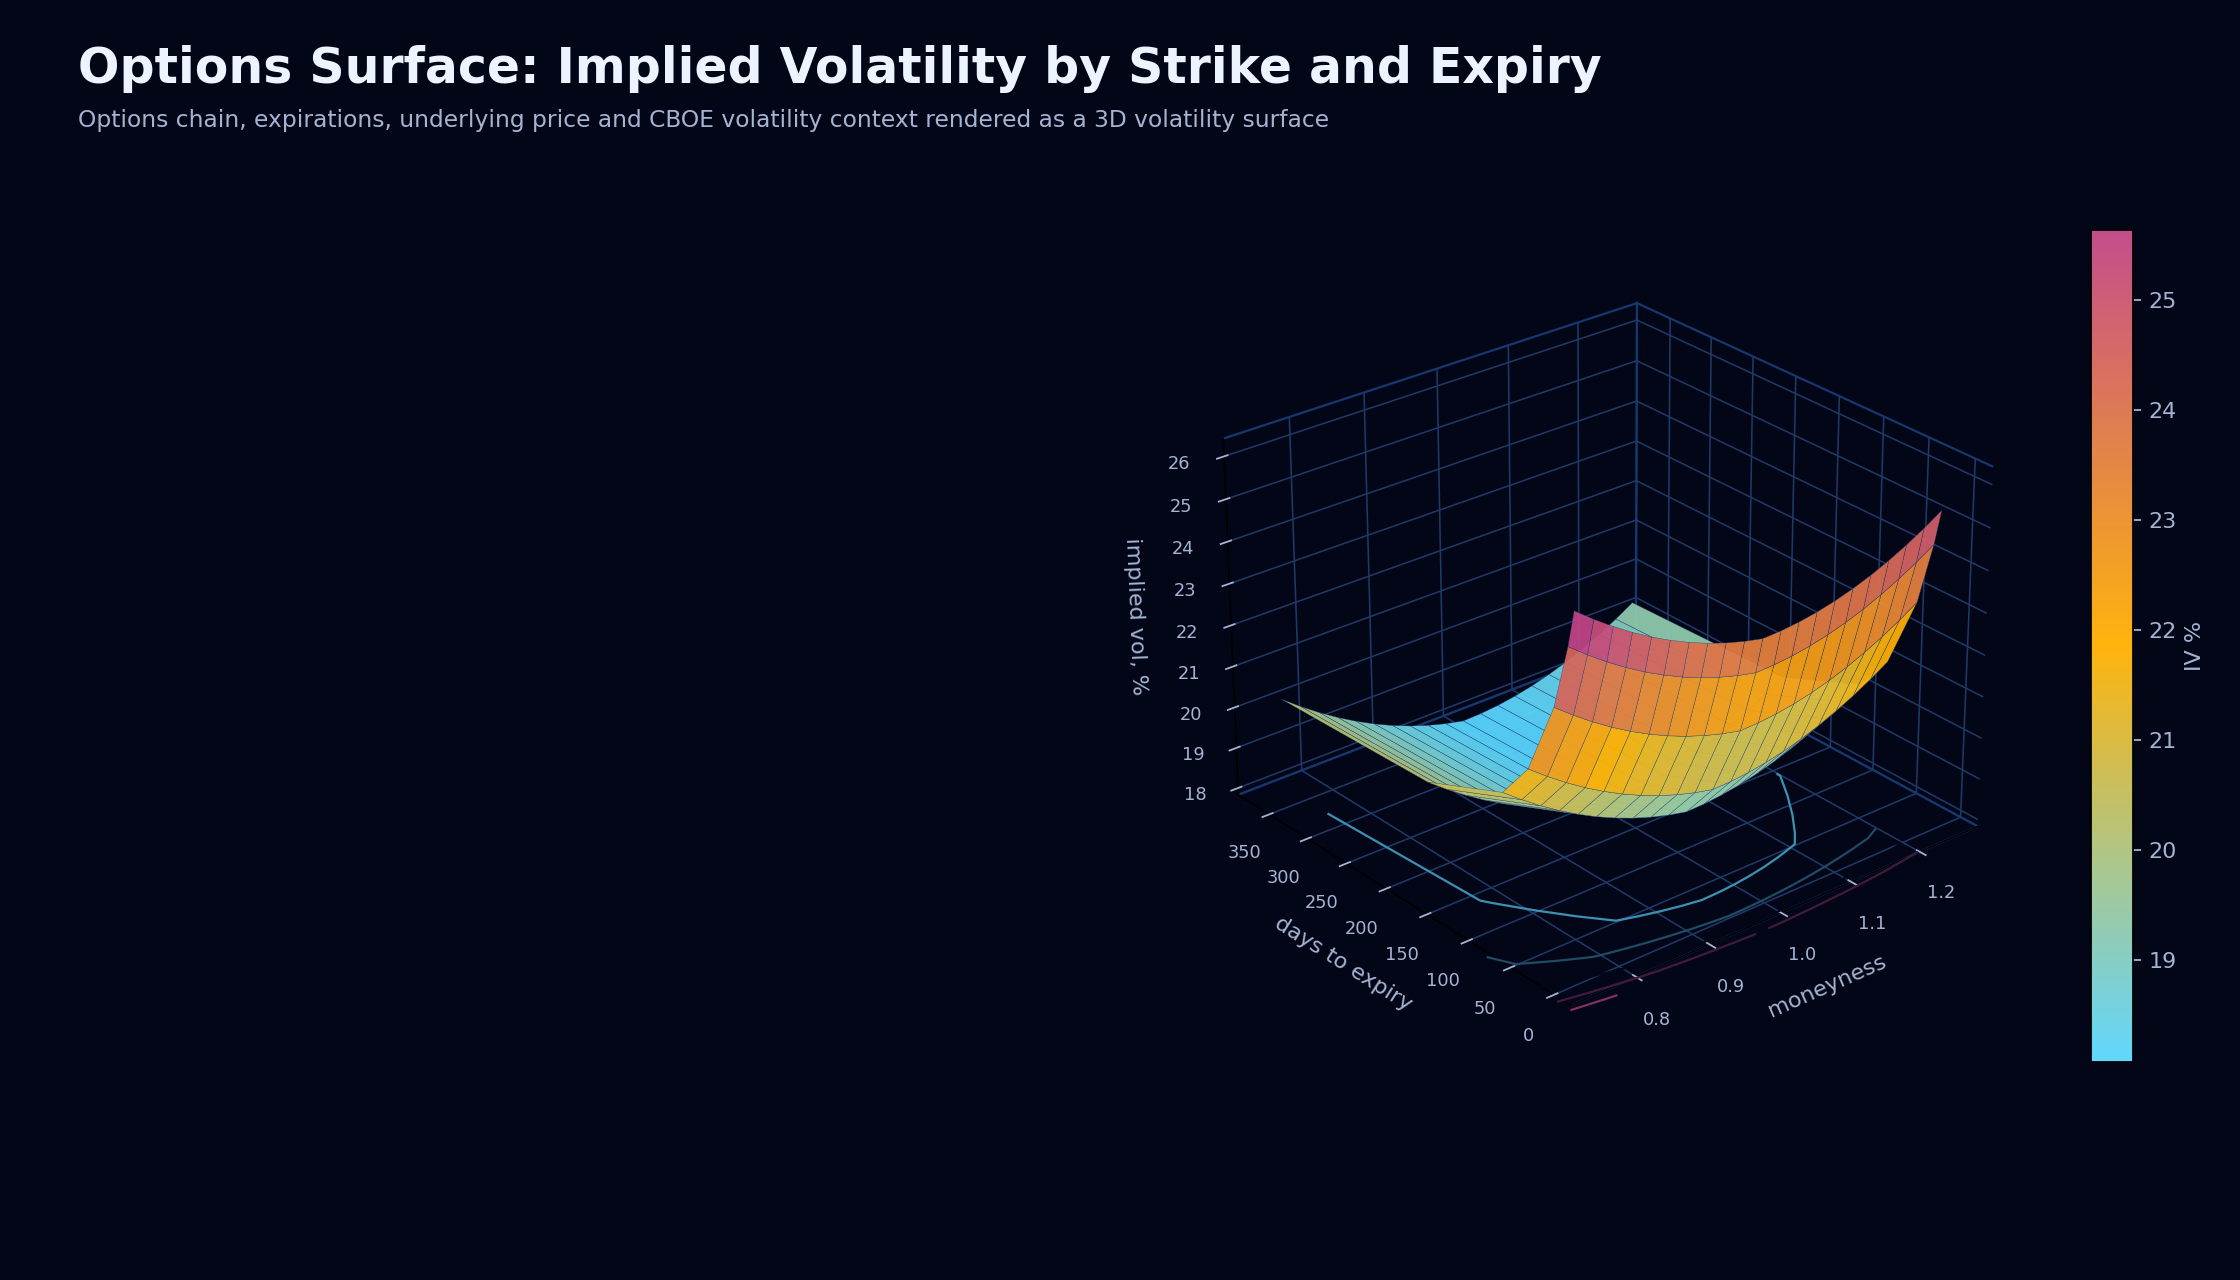
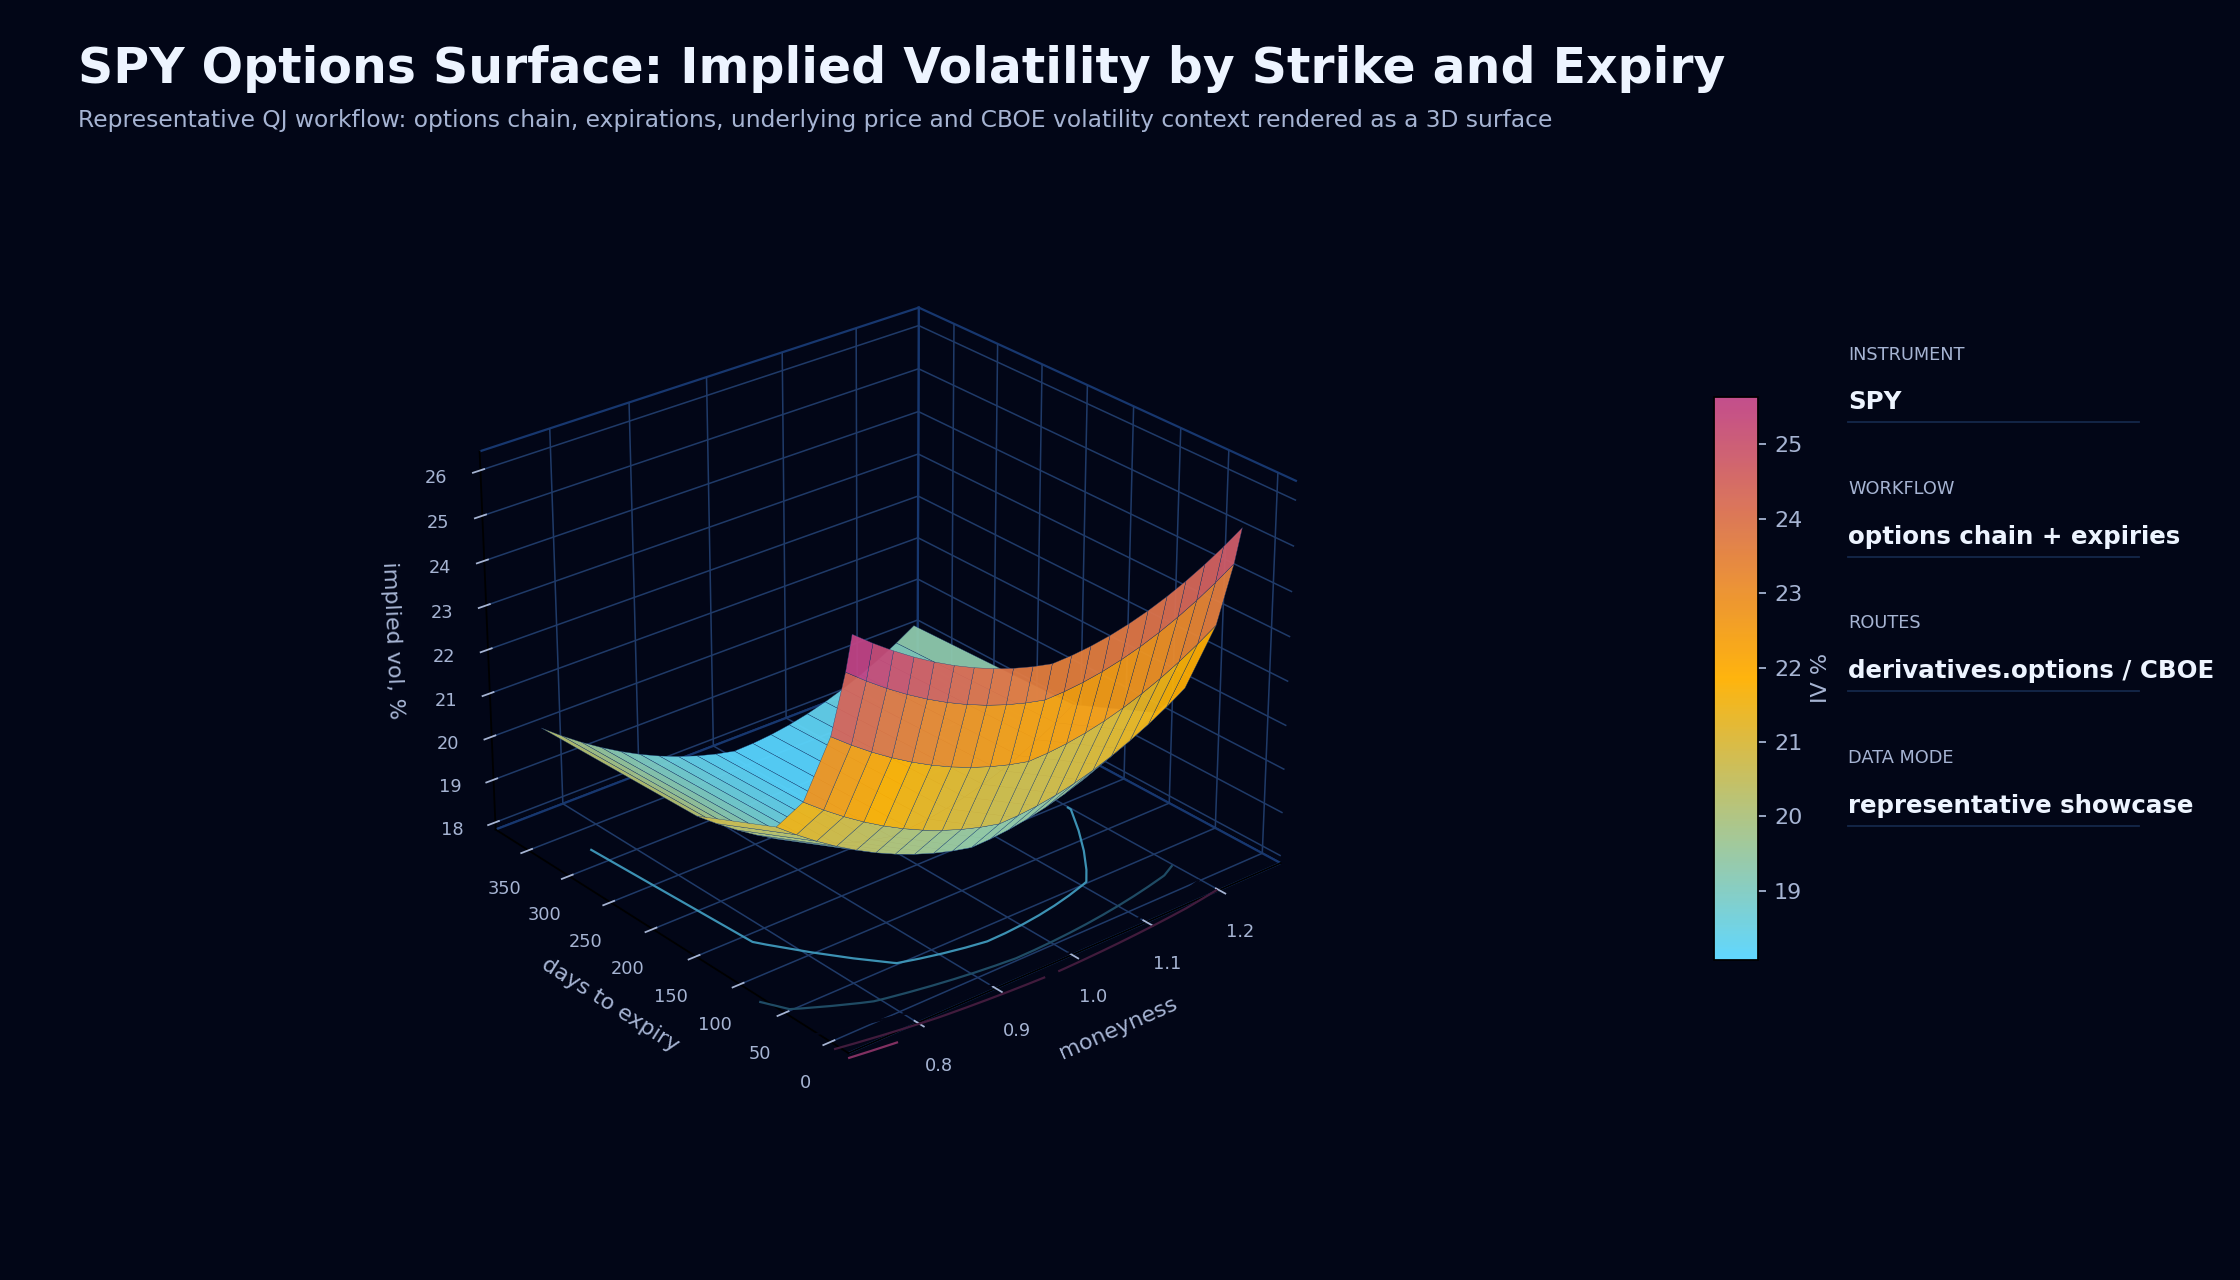
Refine v3 surface chart metadata and layout

diff --git a/scripts/generate_v3_showcase_outputs.py b/scripts/generate_v3_showcase_outputs.py
@@ -25,6 +25,7 @@ matplotlib.use("Agg")
 
 import matplotlib.pyplot as plt
 from matplotlib.colors import LinearSegmentedColormap
+from matplotlib.lines import Line2D
 from mpl_toolkits.mplot3d import Axes3D  # noqa: F401
 import numpy as np
 import pandas as pd
@@ -126,6 +127,21 @@ def title(fig: plt.Figure, heading: str, subtitle: str) -> None:
     fig.patch.set_facecolor(NAVY)
     fig.text(0.035, 0.965, heading, color=TEXT, fontsize=22, weight="semibold", va="top")
     fig.text(0.035, 0.915, subtitle, color=MUTED, fontsize=10.5, va="top")
+
+
+def surface_layout(fig: plt.Figure) -> tuple[plt.Axes, plt.Axes]:
+    ax = fig.add_axes([0.04, 0.13, 0.70, 0.69], projection="3d")
+    cax = fig.add_axes([0.765, 0.25, 0.020, 0.44])
+    return ax, cax
+
+
+def surface_notes(fig: plt.Figure, rows: list[tuple[str, str]]) -> None:
+    y = 0.73
+    for label, value in rows:
+        fig.text(0.825, y, label.upper(), color=MUTED, fontsize=8, va="top")
+        fig.text(0.825, y - 0.035, value, color=TEXT, fontsize=11, weight="semibold", va="top")
+        fig.add_artist(Line2D([0.825, 0.955], [y - 0.060, y - 0.060], transform=fig.transFigure, color=GRID, linewidth=0.8, alpha=0.65))
+        y -= 0.105
 
 
 def legend_below(ax: plt.Axes, columns: int = 1) -> None:
@@ -798,13 +814,15 @@ def plot_orange_factor_risk_river(out: Path) -> None:
 
 
 def plot_options_vol_surface_3d(out: Path) -> None:
+    ticker = "SPY"
     expiries = np.array([7, 14, 30, 60, 90, 180, 365])
     moneyness = np.linspace(0.75, 1.25, 21)
     X, Y = np.meshgrid(moneyness, expiries)
     surface = 0.18 + 0.22 * (X - 1.0) ** 2 + 0.07 * np.exp(-Y / 45) + 0.035 * np.maximum(0, 1 - X)
     fig = plt.figure(figsize=(14, 8), facecolor=NAVY)
-    title(fig, "Options Surface: Implied Volatility by Strike and Expiry", "Options chain, expirations, underlying price and CBOE volatility context rendered as a 3D volatility surface")
-    ax = fig.add_subplot(111, projection="3d")
+    title(fig, "SPY Options Surface: Implied Volatility by Strike and Expiry", "Representative QJ workflow: options chain, expirations, underlying price and CBOE volatility context rendered as a 3D surface")
+    surface_notes(fig, [("instrument", ticker), ("workflow", "options chain + expiries"), ("routes", "derivatives.options / CBOE"), ("data mode", "representative showcase")])
+    ax, cax = surface_layout(fig)
     style_3d(ax)
     surf = ax.plot_surface(X, Y, surface * 100, cmap=LinearSegmentedColormap.from_list("vol3d", [CYAN, ORANGE, PINK]), linewidth=0.15, edgecolor="#17376f", antialiased=True, alpha=0.95)
     ax.contour(X, Y, surface * 100, zdir="z", offset=surface.min() * 100 - 1, cmap=CMAP, linewidths=1.0)
@@ -812,13 +830,14 @@ def plot_options_vol_surface_3d(out: Path) -> None:
     ax.set_ylabel("days to expiry")
     ax.set_zlabel("implied vol, %")
     ax.view_init(elev=27, azim=-130)
-    cbar = fig.colorbar(surf, ax=ax, fraction=0.035, pad=0.04)
+    cbar = fig.colorbar(surf, cax=cax)
     cbar.set_label("IV %", color=MUTED)
     cbar.ax.tick_params(colors=MUTED)
     save(fig, out)
 
 
 def plot_backtest_parameter_surface_3d(out: Path) -> None:
+    ticker = "SPY"
     fast = np.array([5, 10, 15, 20, 30, 40, 60])
     slow = np.array([80, 100, 125, 160, 200, 250, 320])
     X, Y = np.meshgrid(fast, slow)
@@ -826,8 +845,9 @@ def plot_backtest_parameter_surface_3d(out: Path) -> None:
     surface += 0.05 * np.sin(X / 8) + 0.04 * np.cos(Y / 45)
     best = np.unravel_index(np.argmax(surface), surface.shape)
     fig = plt.figure(figsize=(14, 8), facecolor=NAVY)
-    title(fig, "Backtest Surface: SMA Fast / Slow Parameter Robustness", "Backtester output across a parameter grid, showing Sharpe stability instead of a single optimized point")
-    ax = fig.add_subplot(111, projection="3d")
+    title(fig, "SPY Backtest Surface: SMA Fast / Slow Parameter Robustness", "Representative QJ workflow: adjusted OHLCV prepared for a strategy-grid backtest with Sharpe stability surface")
+    surface_notes(fig, [("instrument", ticker), ("strategy", "SMA crossover"), ("routes", "equity.pricing + backtester"), ("data mode", "representative showcase")])
+    ax, cax = surface_layout(fig)
     style_3d(ax)
     surf = ax.plot_surface(X, Y, surface, cmap=LinearSegmentedColormap.from_list("bt3d", [PINK, ORANGE, GREEN]), edgecolor="#17376f", linewidth=0.2, alpha=0.96)
     ax.scatter([X[best]], [Y[best]], [surface[best]], color=TEXT, s=80, edgecolors=INK, linewidths=0.6)
@@ -836,7 +856,7 @@ def plot_backtest_parameter_surface_3d(out: Path) -> None:
     ax.set_ylabel("slow SMA")
     ax.set_zlabel("Sharpe")
     ax.view_init(elev=28, azim=-128)
-    cbar = fig.colorbar(surf, ax=ax, fraction=0.035, pad=0.04)
+    cbar = fig.colorbar(surf, cax=cax)
     cbar.set_label("Sharpe", color=MUTED)
     cbar.ax.tick_params(colors=MUTED)
     save(fig, out)
@@ -941,20 +961,22 @@ def plot_regime_allocation_river(out: Path) -> None:
 
 
 def plot_liquidity_slippage_surface_3d(out: Path) -> None:
+    ticker = "AAPL"
     participation = np.array([1, 2, 5, 10, 15, 20, 30])
     notional = np.array([5, 10, 25, 50, 100, 150])
     X, Y = np.meshgrid(participation, notional)
     slippage = 1.6 * np.sqrt(X) * np.sqrt(Y / 25) + 0.025 * Y
     fig = plt.figure(figsize=(14, 8), facecolor=NAVY)
-    title(fig, "Liquidity Surface: Slippage by Order Size and Participation", "Adjusted OHLCV volume, FINRA short pressure and capacity assumptions rendered as an execution-cost surface")
-    ax = fig.add_subplot(111, projection="3d")
+    title(fig, "AAPL Liquidity Surface: Slippage by Order Size and Participation", "Representative QJ workflow: adjusted volume, FINRA short pressure and ADV capacity assumptions rendered as an execution-cost surface")
+    surface_notes(fig, [("instrument", ticker), ("workflow", "capacity + slippage"), ("routes", "equity.pricing + FINRA"), ("data mode", "representative showcase")])
+    ax, cax = surface_layout(fig)
     style_3d(ax)
     surf = ax.plot_surface(X, Y, slippage, cmap=LinearSegmentedColormap.from_list("liq3d", [CYAN, ORANGE, PINK]), linewidth=0.2, edgecolor="#17376f", alpha=0.96)
     ax.set_xlabel("participation rate, % ADV")
     ax.set_ylabel("order notional, $m")
     ax.set_zlabel("slippage, bps")
     ax.view_init(elev=30, azim=-135)
-    cbar = fig.colorbar(surf, ax=ax, fraction=0.035, pad=0.04)
+    cbar = fig.colorbar(surf, cax=cax)
     cbar.set_label("bps", color=MUTED)
     cbar.ax.tick_params(colors=MUTED)
     save(fig, out)
@@ -987,21 +1009,23 @@ def plot_pairs_spread_zscore(out: Path) -> None:
 
 
 def plot_option_greeks_surface_3d(out: Path) -> None:
+    ticker = "SPY"
     spot_grid = np.linspace(80, 120, 25)
     expiry = np.array([7, 14, 30, 60, 90, 180])
     X, Y = np.meshgrid(spot_grid, expiry)
     gamma = np.exp(-((X - 100) ** 2) / 120) * np.exp(-Y / 240) * 1.8
     gamma -= 0.55 * np.exp(-((X - 112) ** 2) / 80) * np.exp(-Y / 80)
     fig = plt.figure(figsize=(14, 8), facecolor=NAVY)
-    title(fig, "Options Greeks Surface: Net Gamma Exposure", "Options chain, strikes, expirations and underlying price transformed into a 3D Greeks exposure surface")
-    ax = fig.add_subplot(111, projection="3d")
+    title(fig, "SPY Options Greeks Surface: Net Gamma Exposure", "Representative QJ workflow: option chain strikes, expirations and underlying price transformed into a 3D Greeks exposure surface")
+    surface_notes(fig, [("instrument", ticker), ("workflow", "option chain greeks"), ("routes", "derivatives.options / greeks"), ("data mode", "representative showcase")])
+    ax, cax = surface_layout(fig)
     style_3d(ax)
     surf = ax.plot_surface(X, Y, gamma, cmap=LinearSegmentedColormap.from_list("gamma3d", [PINK, NAVY, ORANGE]), edgecolor="#17376f", linewidth=0.2, alpha=0.96)
     ax.set_xlabel("underlying price")
     ax.set_ylabel("days to expiry")
     ax.set_zlabel("net gamma")
     ax.view_init(elev=28, azim=-128)
-    cbar = fig.colorbar(surf, ax=ax, fraction=0.035, pad=0.04)
+    cbar = fig.colorbar(surf, cax=cax)
     cbar.set_label("gamma exposure", color=MUTED)
     cbar.ax.tick_params(colors=MUTED)
     save(fig, out)
